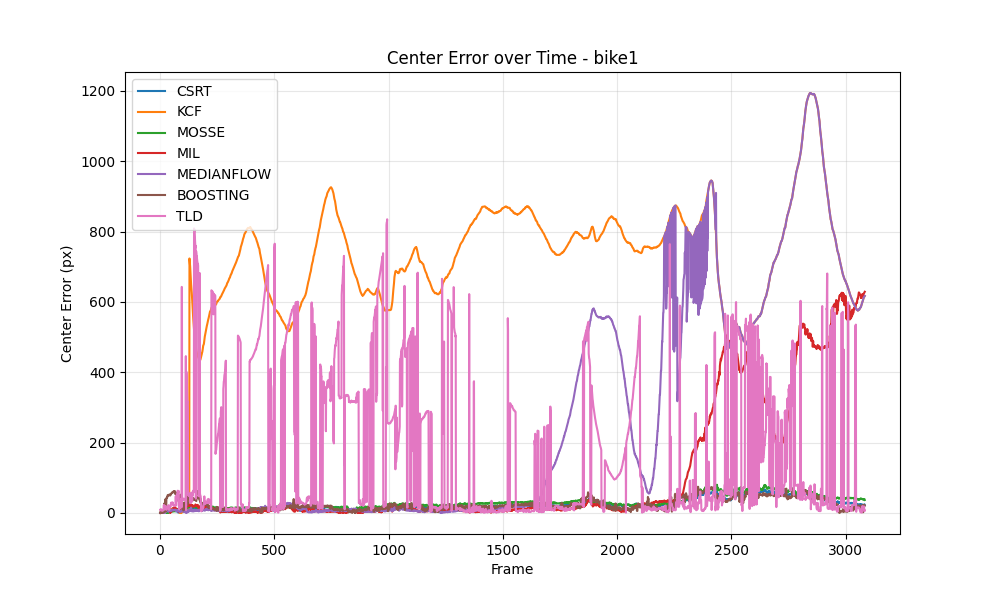
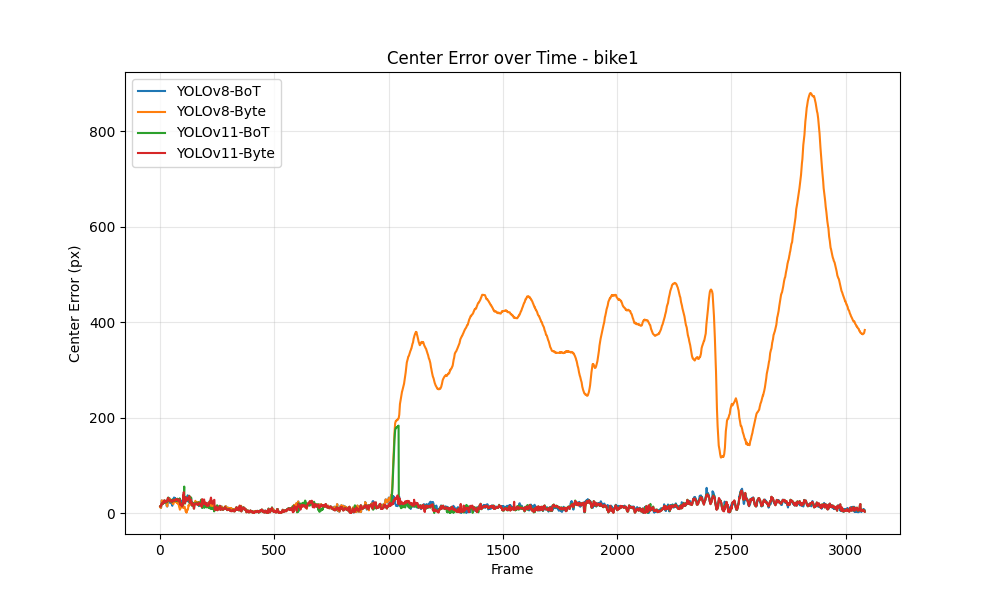
pytorch format results

diff --git a/src/tracking/benchmark.py b/src/tracking/benchmark.py
@@ -423,8 +423,8 @@ if __name__ == "__main__":
     # trackers_to_test = ["YOLOv11+CSRT", "YOLOv11+MOSSE", "YOLOv11+KCF", "YOLOv8+CSRT", "YOLOv8+MOSSE", "YOLOv8+KCF",
     #                     "BOOSTING", "MEDIANFLOW", "MIL", "TLD", "CSRT", "KCF", "MOSSE", "YOLOv11-Byte", "YOLOv8-Byte", 
     #                     "YOLOv11-BoT", "YOLOv8-BoT"]
-    trackers_to_test = ["CSRT", "KCF", "MOSSE", "MIL", "MEDIANFLOW", "BOOSTING", "TLD"]
-    # trackers_to_test = ["RTDETR-BoT", "YOLOv8-BoT", "YOLOv8-Byte", "YOLOv11-BoT", "YOLOv11-Byte"] 
+    # trackers_to_test = ["CSRT", "KCF", "MOSSE", "MIL", "MEDIANFLOW", "BOOSTING", "TLD"]
+    trackers_to_test = ["YOLOv8-BoT", "YOLOv8-Byte", "YOLOv11-BoT", "YOLOv11-Byte"] 
     # trackers_to_test = ["BOOSTING", "MEDIANFLOW", "MIL", "TLD"]
     
     # sequences_to_test = ["uav1"]
